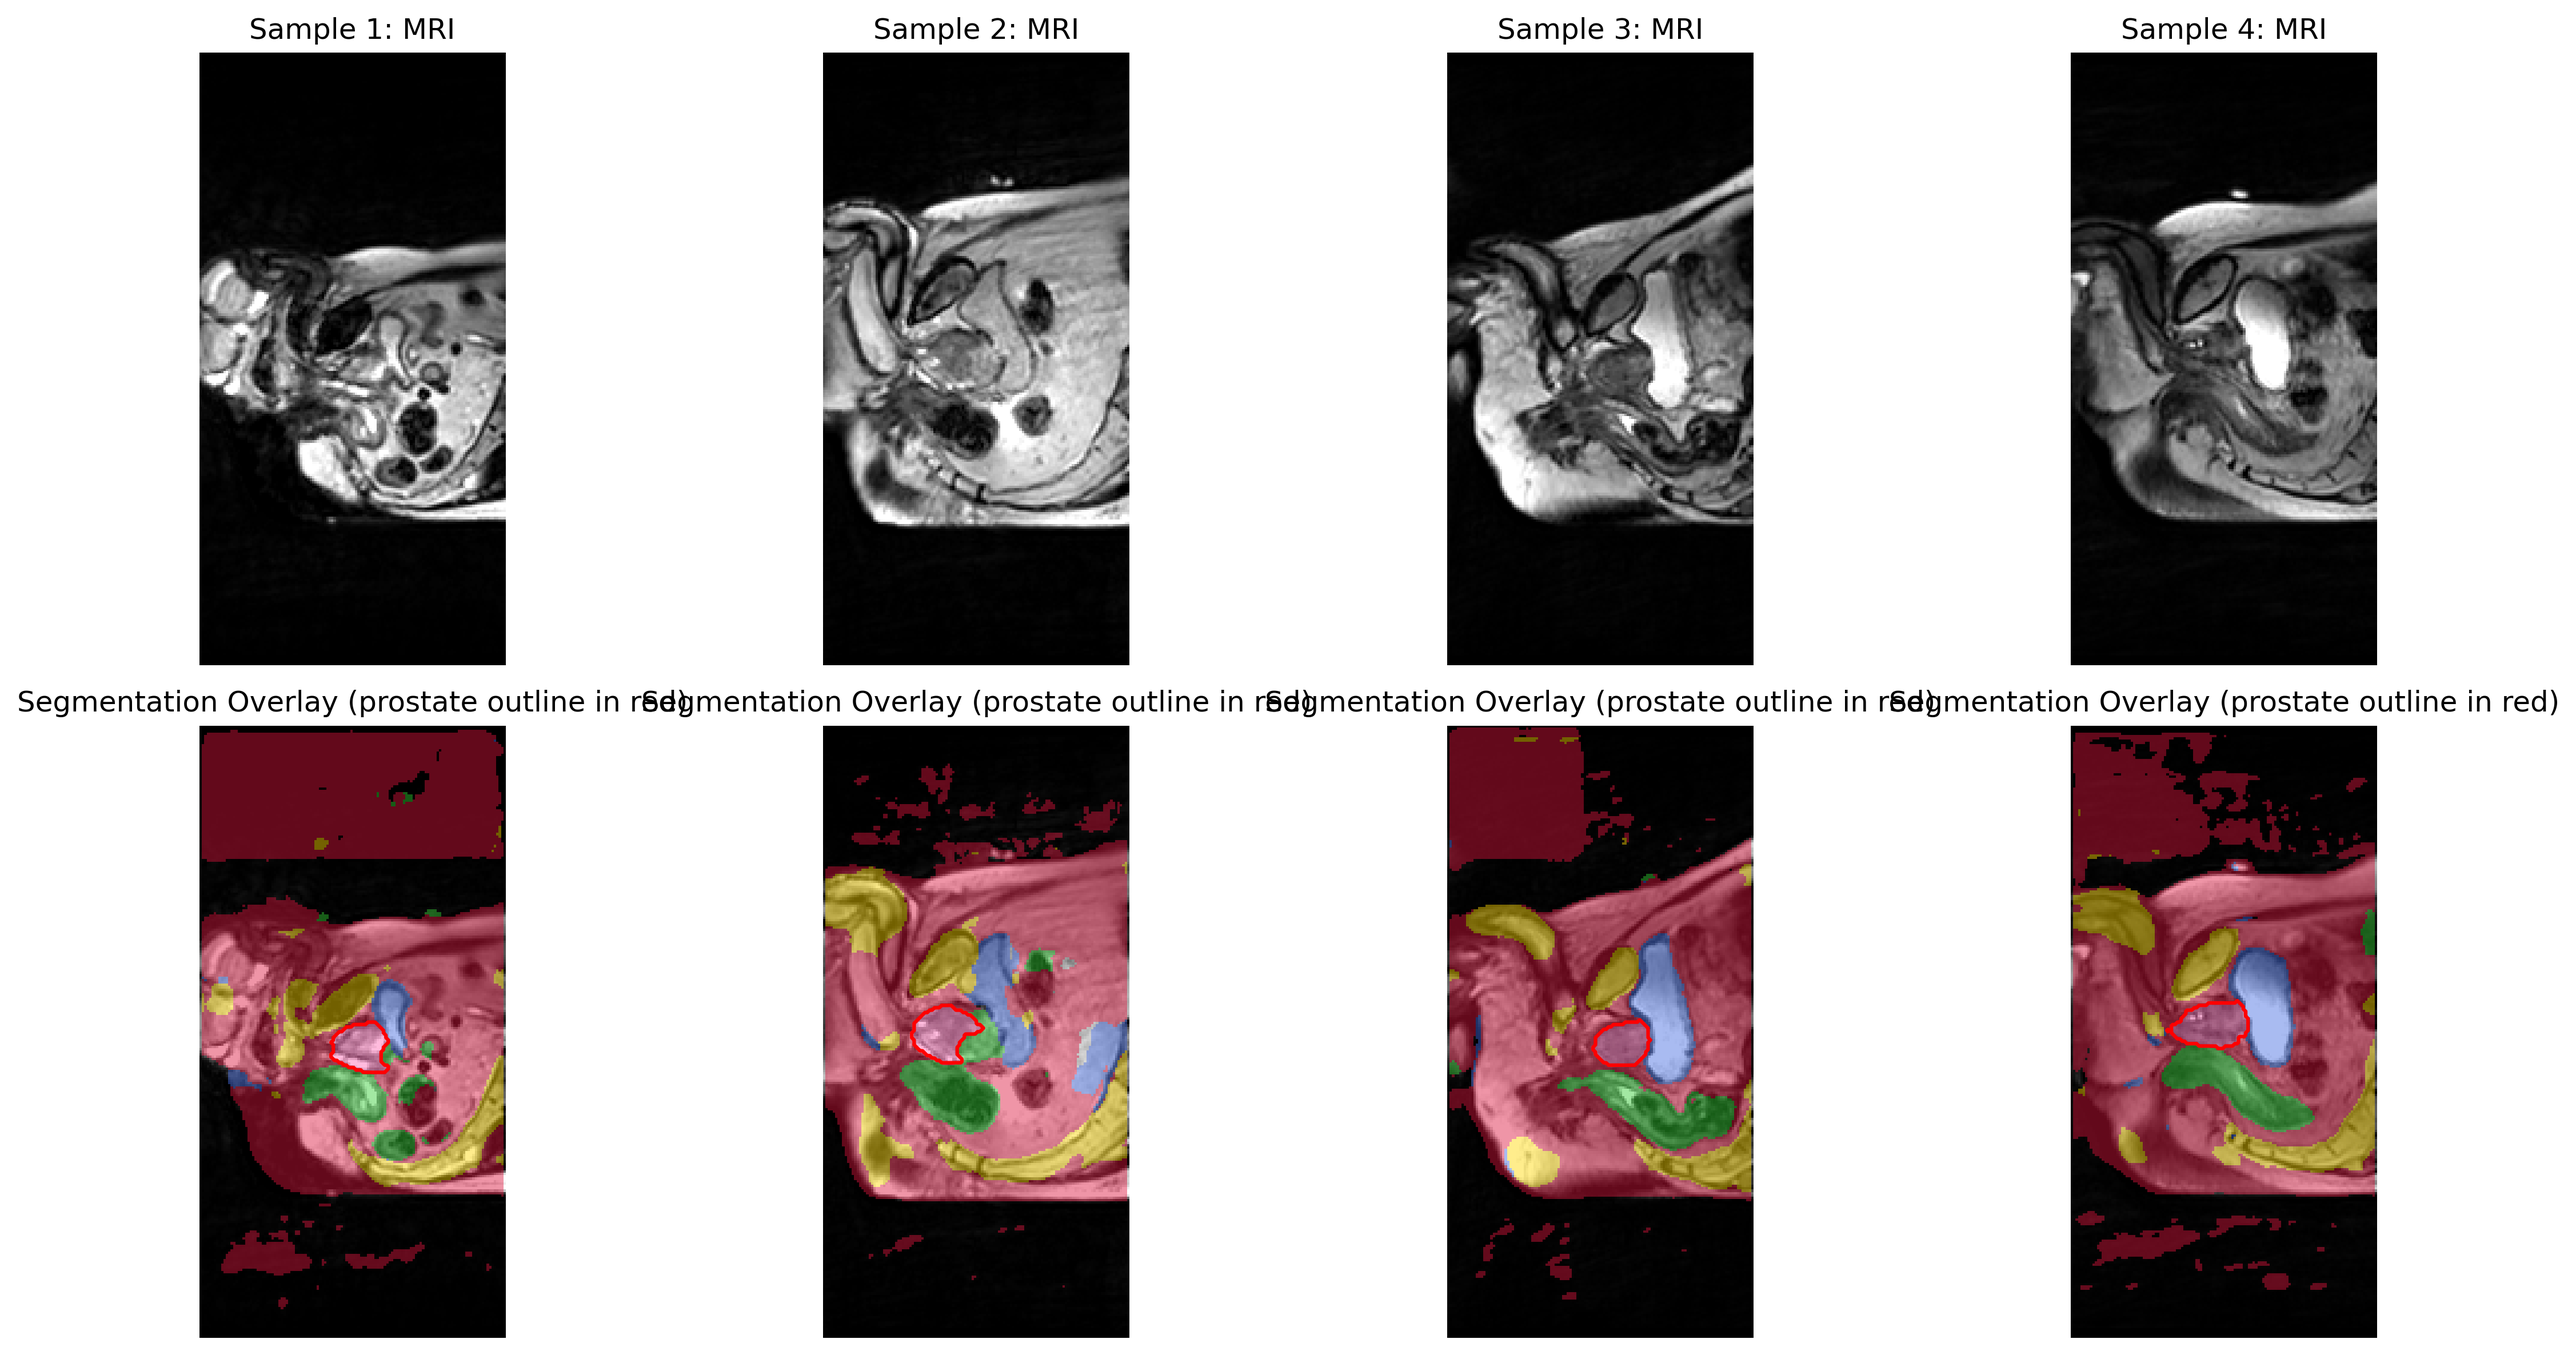
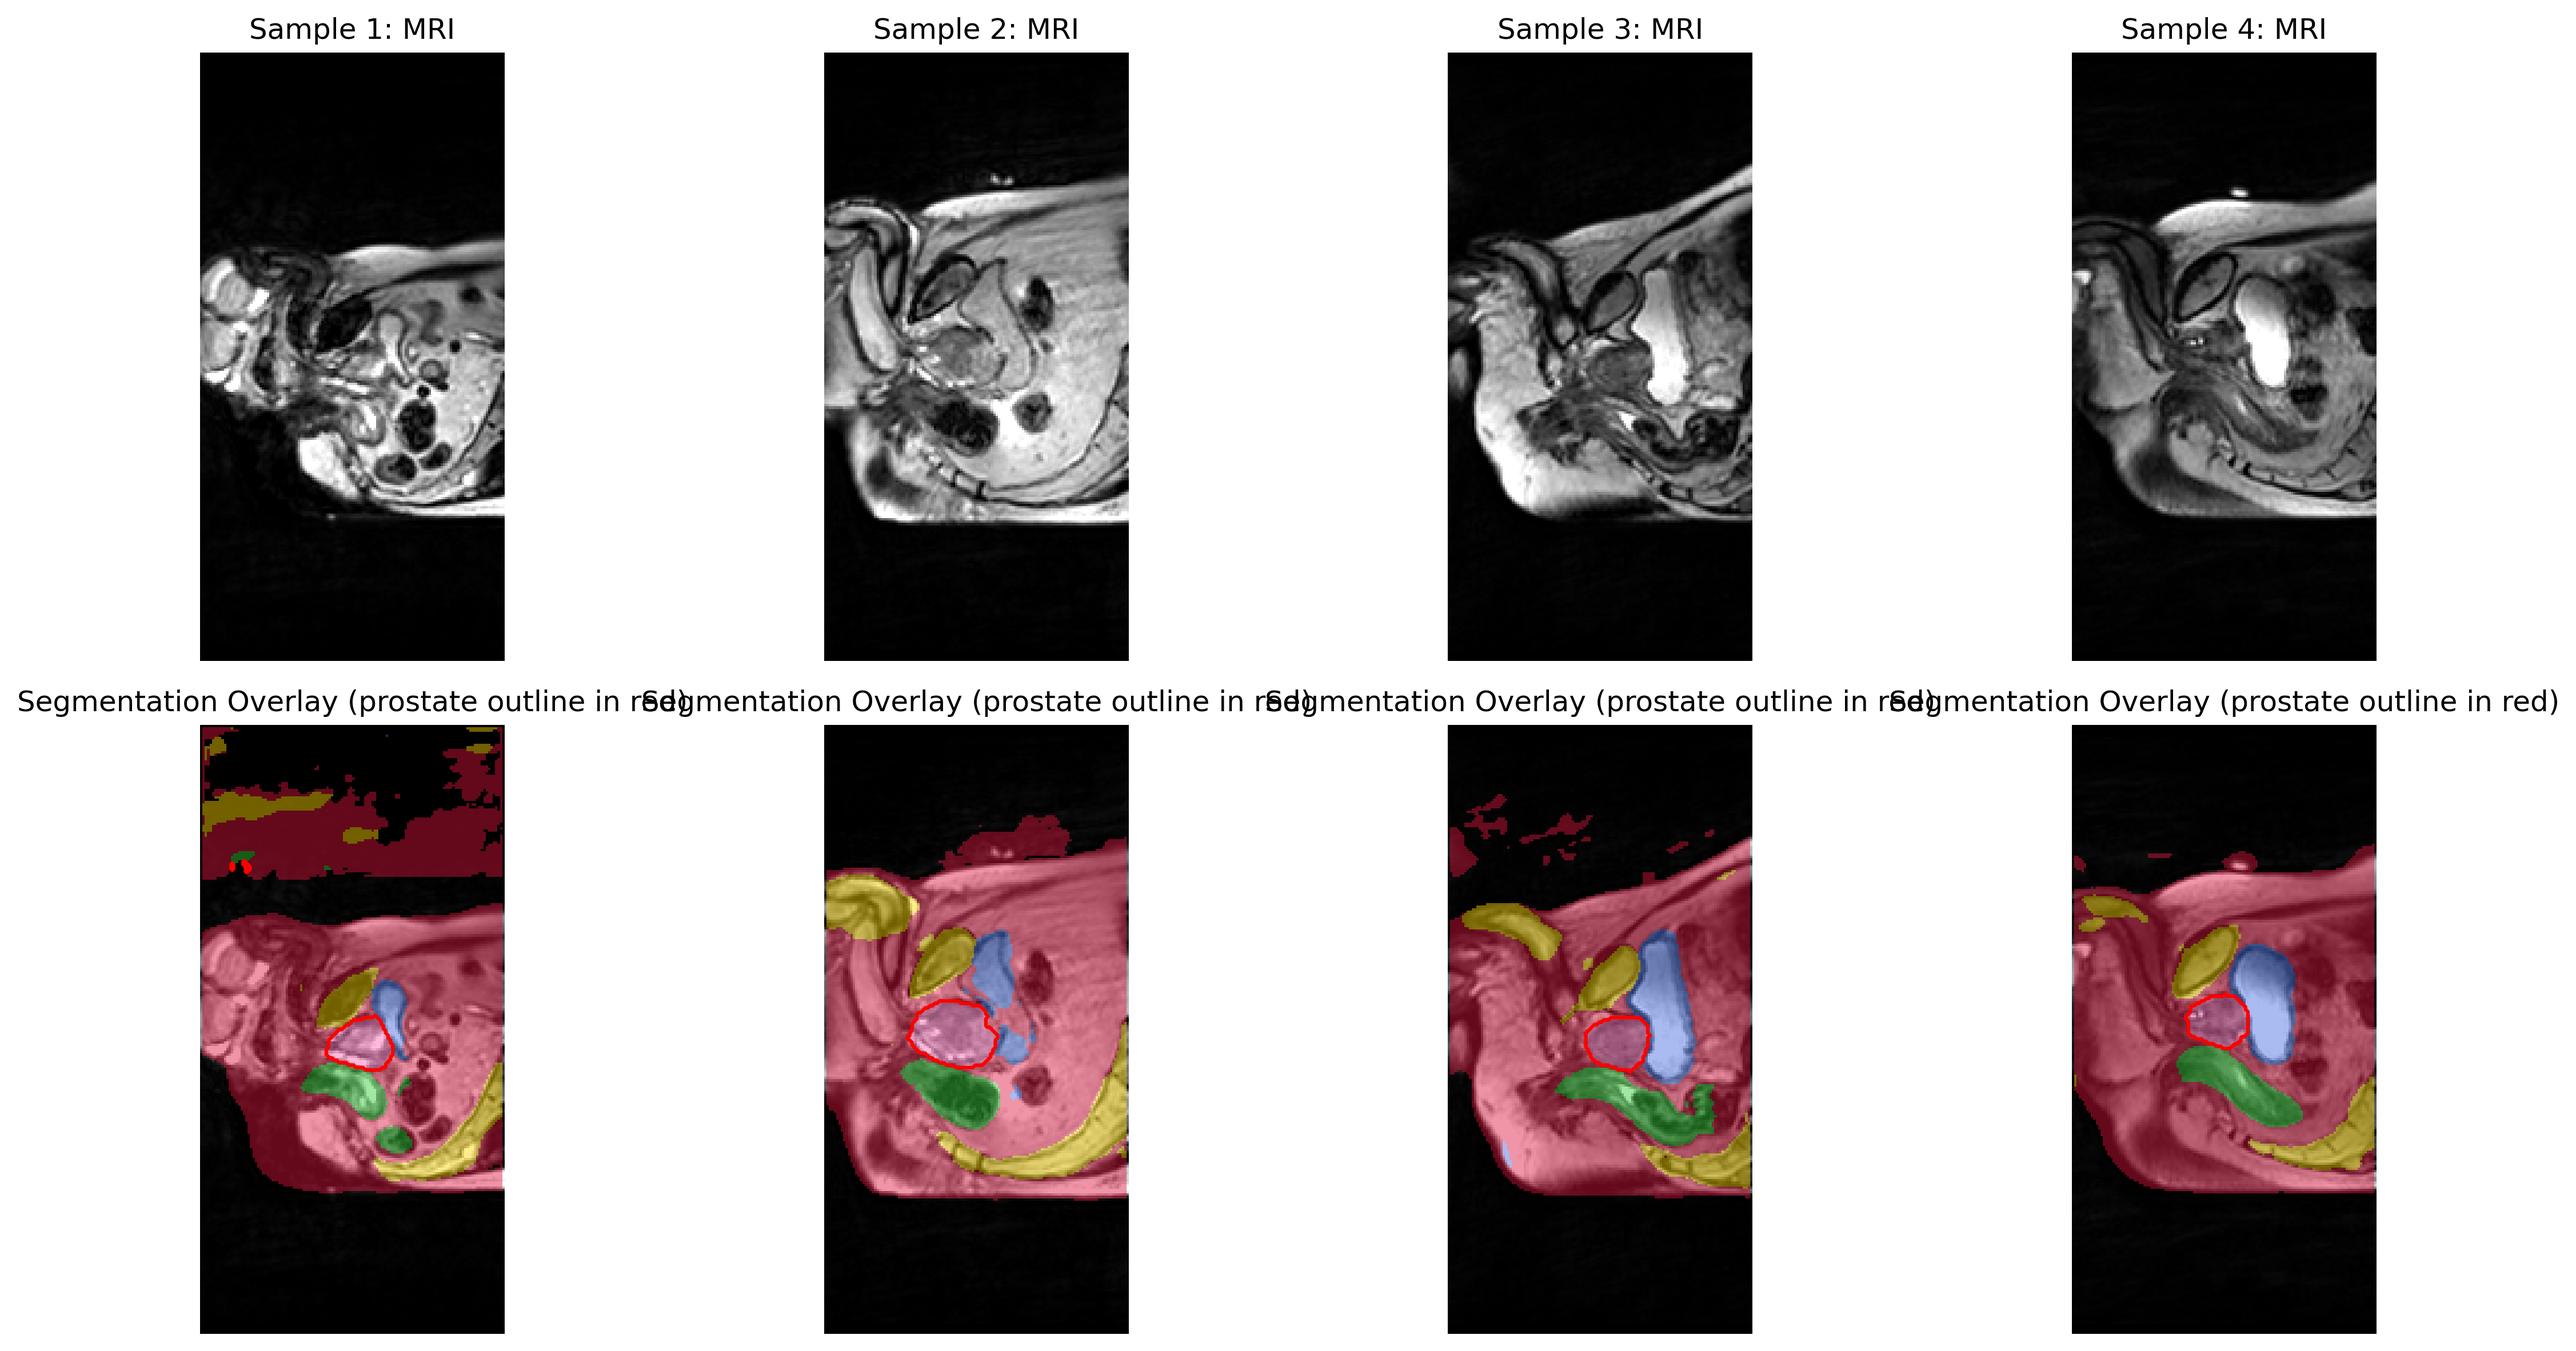
Correction: The predicted parameter values are the corresponding trained parameter values. Patch 80, overlap 32.but low epho training for faster done

diff --git a/recognition/prostate3d_Luyi_Ying_48360591/README.md b/recognition/prostate3d_Luyi_Ying_48360591/README.md
@@ -72,17 +72,18 @@ note: use small patch for run in local with low storage. you can use larger patc
   3) adopt **balanced random cropping** during training to avoid empty-organ patches.
 
 ## result:
-Results by test instruction 2(run around 1.5 hours):
+Results by test instruction 2(run around 2 hours):
 | Channel | Class | Dice Coefficient |
 |---------|-------|------------------|
-| 0 | Background | 0.9522 |
-| 1 | body | 0.9882 |
-| 2 | bone | 0.8552 |
-| 3 | bladder | 0.8654 |
-| 4 | rectum | 0.7832 |
-| 5 | prostate | 0.8795 |
+| 0 | Background | 0.9723|
+| 1 | body | 0.9413 |
+| 2 | bone | 0.8304 |
+| 3 | bladder | 0.8590 |
+| 4 | rectum | 0.7905 |
+| 5 | prostate | 0.8334 |
 
-**Mean Dice Coefficient**: 0.8872
+**Mean Dice Coefficient**(all classes): 0.8712
+**Mean Dice Coefficient**(organs only): 0.8509
 
 ## Testing Instructions
 **train:**
@@ -105,7 +106,7 @@ python recognition\prostate3d_Luyi_Ying_48360591\train.py `
 ```
 python {train_script} \\
   --data_root "{data_root_colab}" \\
-  --epochs 60 --batch_size 1 \\
+  --epochs 45 --batch_size 1 \\
   --base 16 \\
   --patch 80 80 80 \\
   --accum 1 \\
@@ -120,7 +121,7 @@ python recognition\prostate3d_Luyi_Ying_48360591\predict.py `
   --data_root "D:\document\UQ\4COMP3710\A3\data" `
   --split val `
   --ckpt runs\best.ckpt --outdir runs\preds_val --device cuda `
-  --patch 64 64 64 --overlap 16 --amp --num_samples 4 --axis z --slice center
+  --patch 80 80 80 --overlap 32 --amp --num_samples 4 --axis z --slice center
 ```
 ## Prediction examples
 * Figure 1:training losses
@@ -134,9 +135,10 @@ python recognition\prostate3d_Luyi_Ying_48360591\predict.py `
 * Figure 5: Segmentation overlays blended with original MRI images for visual interpretation
 ![alt text](pics/predictions_overlay.png)
 Visual results demonstrate:
+* training behaves well
 * Precisely outline the prostate contour
 * Robust segmentation for different anatomical variations
-* The boundaries between adjacent structures need to be improved.
+* The boundaries between adjacent structures need to be improved.(especially the background class still need train, e.g upgrade its weight)
 ## Implementation Details:
 ### `dataset.py`
 Find the correct file, match the image with the label, normalize the ID, split the data, read the NIfTI, perform normalization, and return the standard tensor.
